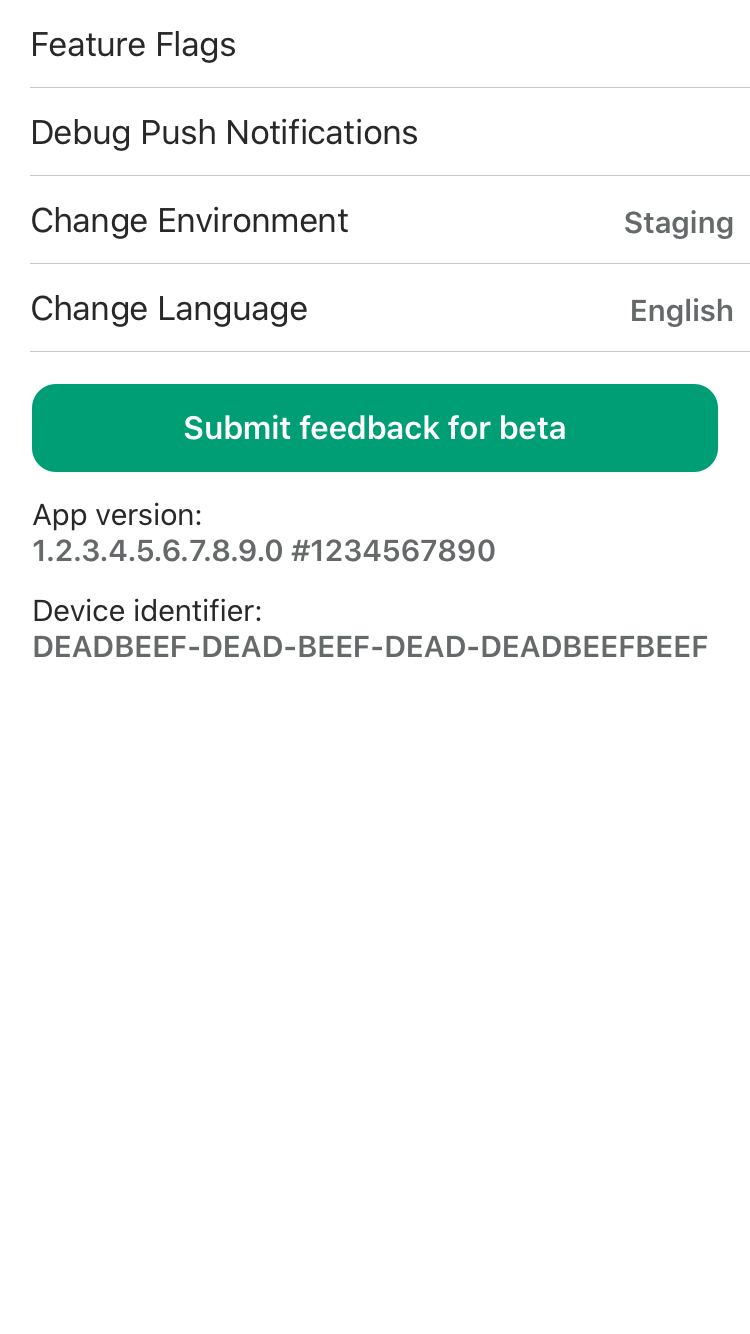
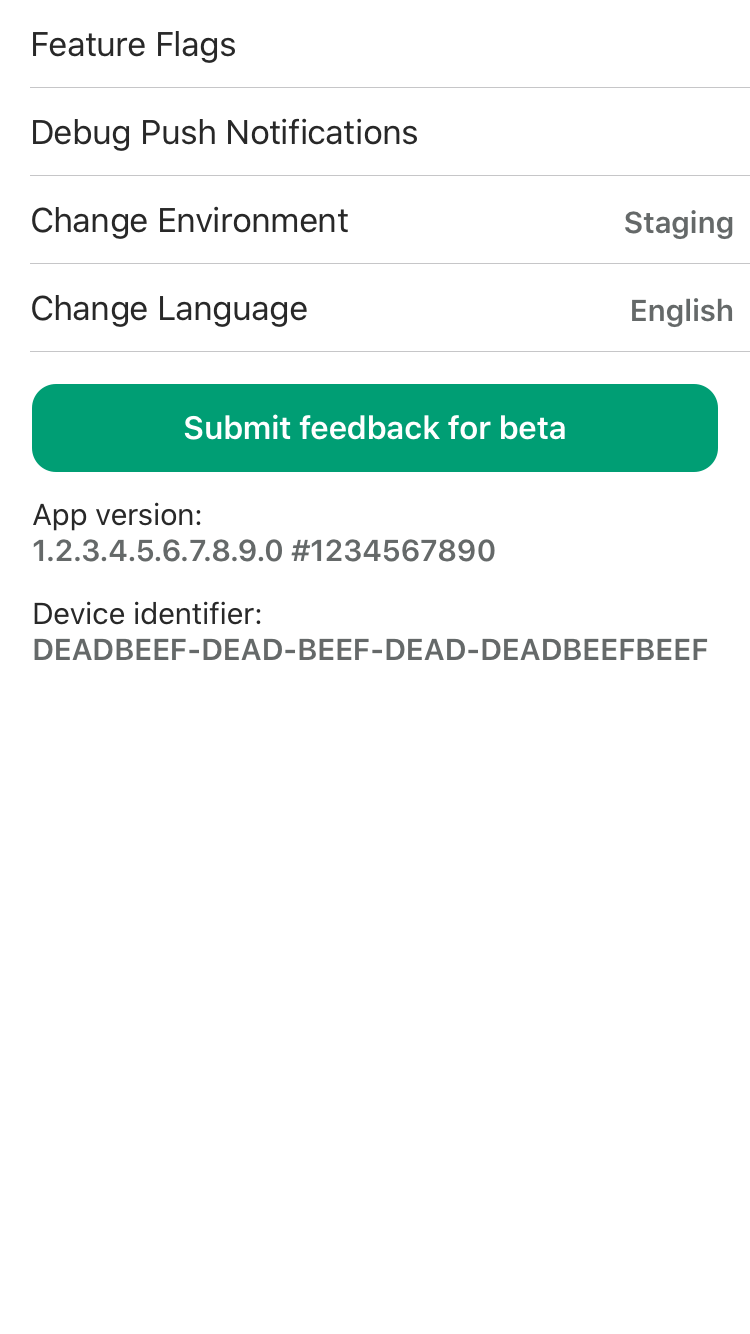
[NT-1188] Convert UILabels in Beta Tools to UITextViews (#1171)
* Convert to textviews

* Update snapshot

Changed region(s): [[0.0307, 0.4303, 0.9507, 0.4918]]

diff --git a/Kickstarter-iOS/Views/BetaToolsFooterView.swift b/Kickstarter-iOS/Views/BetaToolsFooterView.swift
@@ -9,11 +9,11 @@ protocol BetaToolsFooterViewDelegate: AnyObject {
 final class BetaToolsFooterView: UIView {
   // MARK: - Properties
 
-  private let appVersionDetailLabel: UILabel = { UILabel(frame: .zero) }()
+  private let appVersionDetailTextView: UITextView = { UITextView(frame: .zero) }()
   private let appVersionStackView: UIStackView = { UIStackView(frame: .zero) }()
   private let appVersionTitleLabel: UILabel = { UILabel(frame: .zero) }()
   private let betaFeedbackButton = UIButton(type: .custom)
-  private let deviceIdentifierDetailLabel: UILabel = { UILabel(frame: .zero) }()
+  private let deviceIdentifierDetailTextView: UITextView = { UITextView(frame: .zero) }()
   private let deviceIdentifierStackView: UIStackView = { UIStackView(frame: .zero) }()
   private let deviceIdentifierTitleLabel: UILabel = { UILabel(frame: .zero) }()
   private let rootStackView: UIStackView = { UIStackView(frame: .zero) }()
@@ -44,10 +44,13 @@ final class BetaToolsFooterView: UIView {
       |> ksr_addSubviewToParent()
       |> ksr_constrainViewToMarginsInParent()
 
-    _ = ([self.appVersionTitleLabel, self.appVersionDetailLabel], self.appVersionStackView)
+    _ = ([self.appVersionTitleLabel, self.appVersionDetailTextView], self.appVersionStackView)
       |> ksr_addArrangedSubviewsToStackView()
 
-    _ = ([self.deviceIdentifierTitleLabel, self.deviceIdentifierDetailLabel], self.deviceIdentifierStackView)
+    _ = (
+      [self.deviceIdentifierTitleLabel, self.deviceIdentifierDetailTextView],
+      self.deviceIdentifierStackView
+    )
       |> ksr_addArrangedSubviewsToStackView()
 
     _ = (
@@ -70,8 +73,8 @@ final class BetaToolsFooterView: UIView {
   override func bindStyles() {
     super.bindStyles()
 
-    _ = self.appVersionDetailLabel
-      |> appVersionDetailLabelStyle
+    _ = self.appVersionDetailTextView
+      |> appVersionDetailTextViewStyle
 
     _ = self.appVersionStackView
       |> appVersionStackViewStyle
@@ -82,8 +85,8 @@ final class BetaToolsFooterView: UIView {
     _ = self.betaFeedbackButton
       |> betaFeedbackButtonStyle
 
-    _ = self.deviceIdentifierDetailLabel
-      |> deviceIdentifierDetailLabelStyle
+    _ = self.deviceIdentifierDetailTextView
+      |> deviceIdentifierDetailTextViewStyle
 
     _ = self.deviceIdentifierStackView
       |> deviceIdentifierStackViewStyle
@@ -104,9 +107,9 @@ final class BetaToolsFooterView: UIView {
 
 // MARK: - Styles
 
-private let appVersionDetailLabelStyle: LabelStyle = { label in
-  label
-    |> baseDetailLabelStyle
+private let appVersionDetailTextViewStyle: TextViewStyle = { textView in
+  textView
+    |> baseTextViewStyle
     |> \.text .~ AppEnvironment.current.mainBundle.appVersionString
 }
 
@@ -127,11 +130,12 @@ private let betaFeedbackButtonStyle: ButtonStyle = { button in
     |> UIButton.lens.title(for: .normal) .~ "Submit feedback for beta"
 }
 
-private let deviceIdentifierDetailLabelStyle: LabelStyle = { label in
-  label
-    |> baseDetailLabelStyle
-    |> \.minimumScaleFactor .~ 0.5
+private let deviceIdentifierDetailTextViewStyle: TextViewStyle = { textView in
+  _ = textView
+    |> baseTextViewStyle
     |> \.text .~ AppEnvironment.current.device.identifierForVendor?.uuidString
+
+  return textView
 }
 
 private let deviceIdentifierStackViewStyle: StackViewStyle = { stackView in
@@ -151,12 +155,20 @@ private let rootStackViewStyle: StackViewStyle = { stackView in
     |> \.spacing .~ Styles.grid(2)
 }
 
-private let baseDetailLabelStyle: LabelStyle = { label in
-  label
+private let baseTextViewStyle: TextViewStyle = { textView in
+  _ = textView
     |> \.font .~ .ksr_headline(size: 15)
     |> \.textColor .~ .ksr_text_dark_grey_500
-    |> \.lineBreakMode .~ .byWordWrapping
-    |> \.textAlignment .~ .left
+    |> \.isScrollEnabled .~ false
+
+  _ = textView
+    |> \.textContainerInset .~ UIEdgeInsets.zero
+    |> \.textContainer.lineFragmentPadding .~ 0
+    |> \.isEditable .~ false
+    |> \.isUserInteractionEnabled .~ true
+    |> \.adjustsFontForContentSizeCategory .~ true
+
+  return textView
 }
 
 private let baseTitleLabelStyle: LabelStyle = { label in
